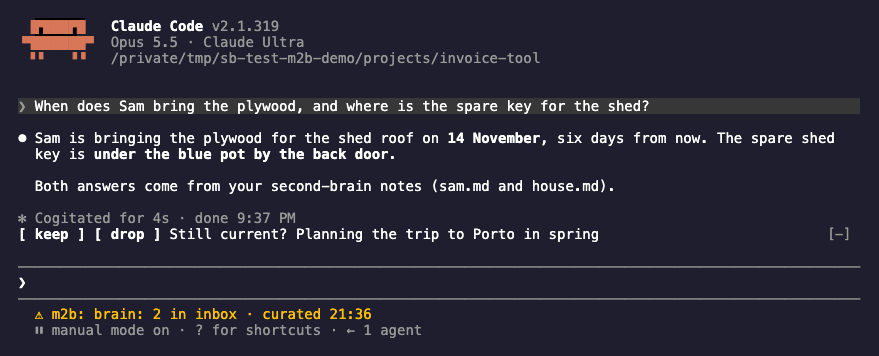
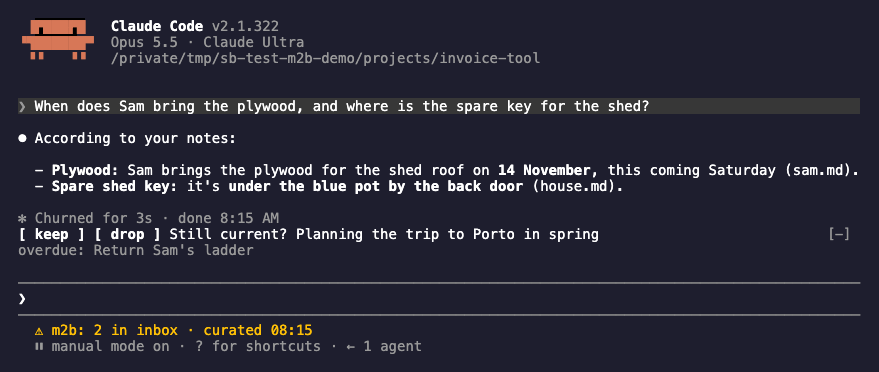
docs(readme): record the session-start image again, with the status line and due tasks of 0.3.0

diff --git a/README.md b/README.md
@@ -36,7 +36,7 @@
   step needs, never in your session. Everything else is plain code: standard library Python, no
   network calls of its own, no server, no database.
 
-![A Claude Code session in an unrelated project answers when Sam brings the plywood and where the shed key is, straight from the distillate, without a tool call; above the prompt the band asks whether planning the trip to Porto is still current, with keep and drop, below it the status line reads "brain: 2 in inbox · curated 21:36"](docs/images/session-start.png)
+![A Claude Code session in an unrelated project answers when Sam brings the plywood and where the shed key is, straight from the distillate, without a tool call; above the prompt the band asks whether planning the trip to Porto is still current, with keep and drop, and lists an overdue task to return Sam's ladder, below it the status line reads "2 in inbox · curated 08:15"](docs/images/session-start.png)
 
 <sub>A new session in an unrelated repository already knows. The band above the prompt and the
 status line below it are [the band](docs/band.md), where m2b asks you to keep or drop; Claude Code
